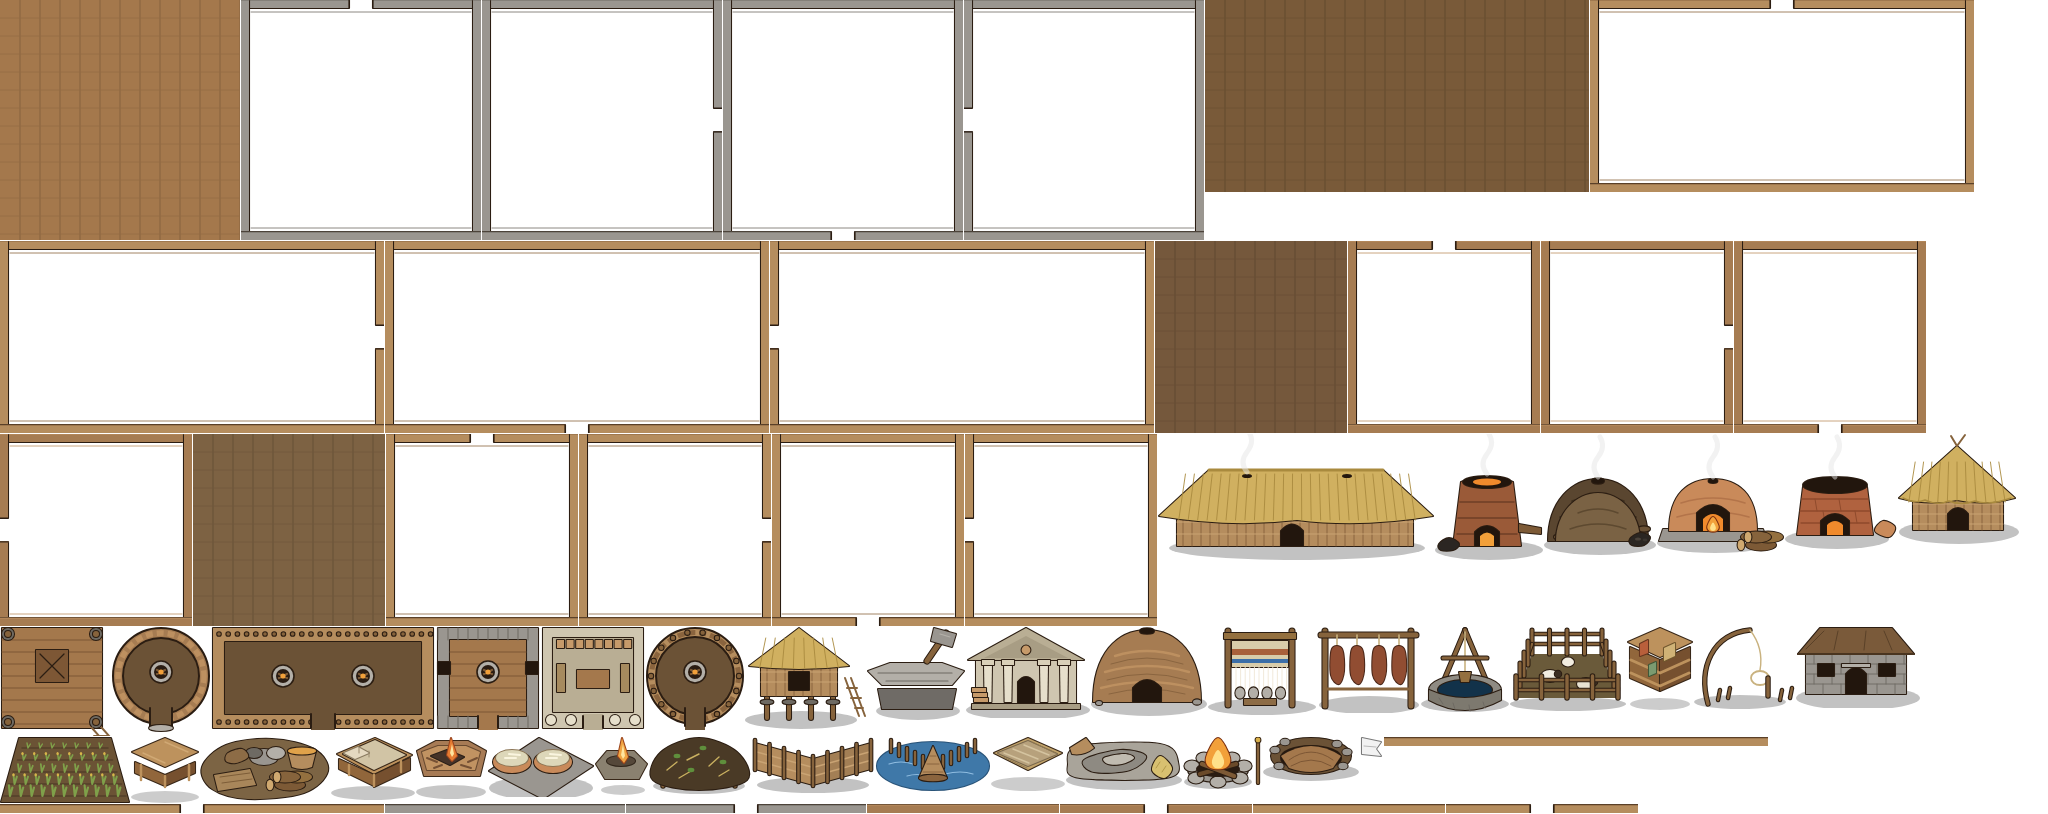
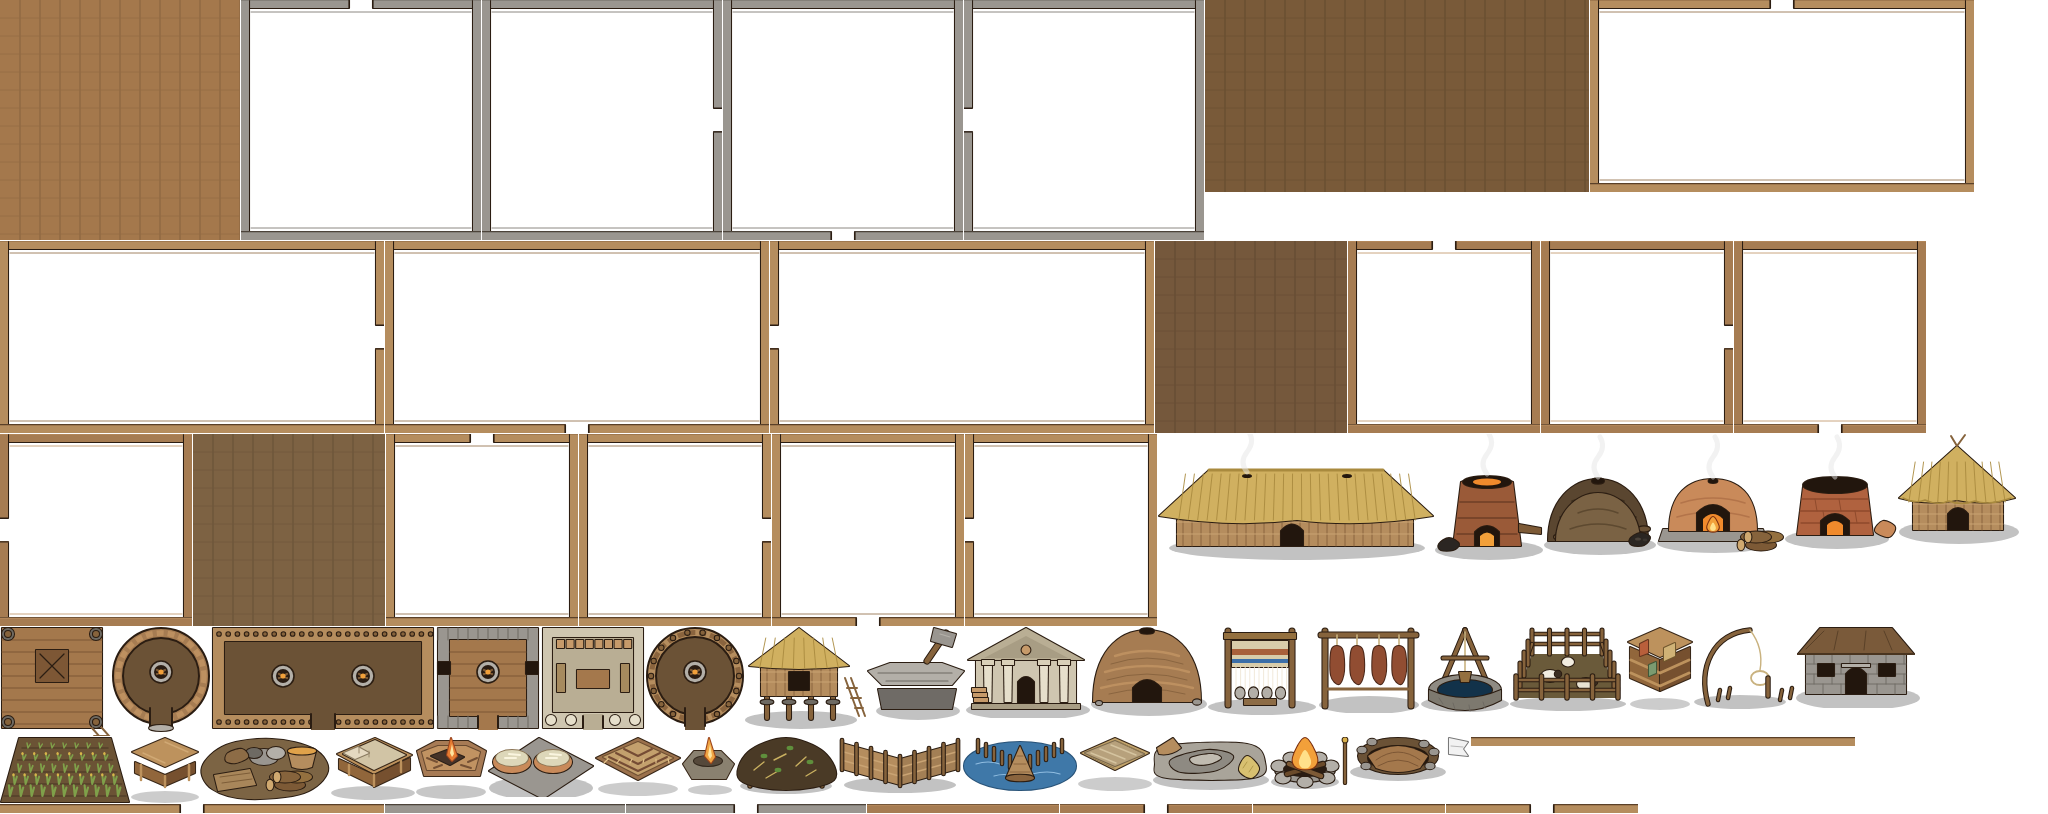
m15: add hide rug sleep surface

Changed region(s): [[0.2812, 0.8907, 0.7188, 0.9828], [0.8438, 0.8907, 0.9062, 0.9214]]

diff --git a/e2e/phase16-rug.spec.ts b/e2e/phase16-rug.spec.ts
@@ -1,0 +1,46 @@
+import { mkdirSync } from 'node:fs';
+import { test, expect } from '@playwright/test';
+
+test('hide rug in a household interior', async ({ page }) => {
+  await page.goto('/?seed=m15-hide-rug&skipIntro=1&defaults=1');
+  await expect(page.locator('.hud-clock')).not.toBeEmpty({ timeout: 15_000 });
+  await page.locator('.hud-button', { hasText: 'Pause' }).click();
+  await page.waitForFunction(() => !!(window as any).__dynasty?.renderer?.art);
+  await page.evaluate(async () => {
+    const d = (window as any).__dynasty, sim = d.sim, person = sim.player;
+    const { BUILDINGS, Building } = await import(/* @vite-ignore */ '/src/sim/entities/Building.ts');
+    let house = null;
+    for (let radius = 0; radius < 12 && !house; radius++) {
+      for (let y = Math.floor(person.y) - radius; y <= Math.floor(person.y) + radius && !house; y++) {
+        for (let x = Math.floor(person.x) - radius; x <= Math.floor(person.x) + radius; x++) {
+          if (sim.canPlace(BUILDINGS.mud_hut, x, y)) {
+            house = sim.place('mud_hut', x, y, person.bandId);
+            if (house) break;
+          }
+        }
+      }
+    }
+    if (!house) throw new Error('could not place a screenshot home');
+    house.complete = true;
+    house.durability = house.def.workTicks;
+    const rug = new Building(BUILDINGS.rug, house.x + 1, house.y + 1, person.bandId, sim.ids);
+    rug.hostId = house.id;
+    rug.complete = true;
+    sim.buildings.push(rug);
+    sim.buildingsById.set(rug.id, rug);
+    sim.buildingHash.insert(rug);
+    sim.peopleHash.remove(person);
+    person.x = house.centerX; person.y = house.centerY;
+    person.targetX = person.x; person.targetY = person.y;
+    sim.peopleHash.insert(person);
+    d.camera.zoom = 7.5;
+    d.camera.snapTo(house.centerX, house.centerY);
+    d.camera.following = false;
+    d.renderer.hideRoofs = true;
+    d.renderer.interpolator.clear();
+    d.renderer.render(null, 0);
+  });
+  const shots = 'artifacts/screenshots/m15-phase16d-hide-rug-2026-10-12';
+  mkdirSync(shots, { recursive: true });
+  await page.screenshot({ path: `${shots}/01-hide-rug-in-house.png` });
+});

diff --git a/src/sim/__tests__/furniture-sleep.test.ts b/src/sim/__tests__/furniture-sleep.test.ts
@@ -476,6 +476,35 @@ describe('bedding and beds', () => {
     } finally { spy.mockRestore(); }
   });
 
+  it('autonomously makes a one-hide rug when a bare household floor has no cheaper bedding recipe', () => {
+    const { sim, person, house } = fixture();
+    person.knownTech.add('cordage'); person.inventory.add('hide', 1);
+    person.action = 'idle'; person.order = null; person.needs.fatigue = 0;
+    expect(RECIPES.rug).toMatchObject({ tech: 'cordage', ingredients: { hide: 1 }, output: { rug: 1 } });
+    expect(scoreOneBrainTick(sim, person).found.recipe).toBe('rug');
+
+    const brain = (sim as unknown as { brain: Brain }).brain;
+    const score = brain.score.bind(brain);
+    const spy = vi.spyOn(brain, 'score').mockImplementation((actor, ctx) => {
+      const result = score(actor, ctx);
+      if (actor === person) for (const action of result.scores) {
+        if (action.id === 'craft' || action.id === 'place_furniture') action.score = 100;
+      }
+      return result;
+    });
+    try {
+      for (let tick = 0; tick < 400 && !sim.buildings.some(piece => piece.hostId === house.id && piece.def.id === 'rug'); tick++) {
+        person.needs.hunger = person.needs.thirst = person.needs.cold = 0;
+        sim.step();
+      }
+    } finally { spy.mockRestore(); }
+
+    const rug = sim.buildings.find(piece => piece.hostId === house.id && piece.def.id === 'rug');
+    expect(rug).toMatchObject({ hostId: house.id, complete: true });
+    expect(sleepQualityAt(house, rug!.centerX, rug!.centerY, [rug!])).toBe(1);
+    expect(sleepQualityAt(house, house.centerX, house.centerY, [])).toBe(0.9);
+  });
+
   it('autonomously carries its bed from the doorway into the room before placing it', () => {
     const { sim, person, house } = fixture();
     person.knownTech.add('carpentry'); person.inventory.add('bed', 1);

diff --git a/src/sim/ai/Brain.ts b/src/sim/ai/Brain.ts
@@ -3845,12 +3845,18 @@ export class Brain {
         }
         if (ordinaryFurnitureWorkAllowed) {
           const canMakeBed = recipeTechPower(person, RECIPES.bed!) > 0;
+          const canMakeRug = recipeTechPower(person, RECIPES.rug!) > 0;
           if (!furnitureItem && !furnitureRecipe && quality < 1.1 && person.inventory.count('bed') >= 1) furnitureItem = 'bed';
           else if (!furnitureItem && !furnitureRecipe && quality < 1 && person.inventory.count('bedding') >= 1 &&
             !(canMakeBed && hasIngredients(person.inventory, RECIPES.bed!))) furnitureItem = 'bedding';
+          else if (!furnitureItem && !furnitureRecipe && quality < 1 && person.inventory.count('rug') >= 1 &&
+            person.inventory.count('bedding') < 1) furnitureItem = 'rug';
           if (quality < (canMakeBed ? 1.1 : 1) && !furnitureItem && !furnitureRecipe) {
             furnitureRecipe = canMakeBed && hasIngredients(person.inventory, RECIPES.bed!) ? 'bed' :
-              person.inventory.count('bedding') < 1 ? 'bedding' : null;
+              person.inventory.count('bedding') < 1 &&
+                (hasIngredients(person.inventory, RECIPES.bedding!) || !canMakeRug ||
+                  !hasIngredients(person.inventory, RECIPES.rug!)) ? 'bedding' :
+              canMakeRug && hasIngredients(person.inventory, RECIPES.rug!) ? 'rug' : null;
           }
           if (!furnitureItem && !furnitureRecipe && !pieces.some(piece => piece.def.id === 'bench')) {
             if (person.inventory.count('bench') > 0) furnitureItem = 'bench';

diff --git a/art/src/buildings/furniture.ts b/art/src/buildings/furniture.ts
@@ -15,6 +15,13 @@ const bedding = (): string =>
   stroke('M48,68L73,78M57,64L82,74M68,60L93,70', '#d4c39f', 1.5) +
   stroke('M47,72L71,83M76,57L99,68', '#907952', 1);
 
+const rug = (): string =>
+  ell(72, 100, 40, 7, 'rgba(0,0,0,0.2)') +
+  shape(poly([[30, 69], [72, 49], [114, 69], [72, 91]]), '#9b714c', OUTLINE) +
+  shape(poly([[37, 68], [72, 53], [107, 69], [72, 86]]), '#c3a06d', '#705133') +
+  stroke('M43,68L72,82L101,68M50,64L72,75L94,64M58,60L72,67L86,60', '#754c34', 2) +
+  [0, 1, 2, 3, 4, 5].map(i => stroke(`M${42 + i * 12},70L${38 + i * 13},74`, '#e1c28a', 1.2)).join('');
+
 const bed = (): string =>
   ell(72, 101, 42, 7, 'rgba(0,0,0,0.22)') +
   shape(poly([[36, 62], [74, 46], [111, 63], [73, 82]]), WOOD_LIGHT, OUTLINE) +
@@ -61,6 +68,7 @@ const fireplace = (): string =>
 
 export const FURNITURE: BuildingArt[] = [
   ['bedding', 'Lecho', 'cordage', 96, bedding],
+  ['rug', 'Alfombra de piel', 'cordage', 96, rug],
   ['bed', 'Cama', 'carpentry', 96, bed],
   ['bench', 'Banco', 'carpentry', 96, bench],
   ['fat_lamp', 'Lámpara de grasa', 'firemaking', 96, fatLamp],

diff --git a/art/src/props/items.ts b/art/src/props/items.ts
@@ -79,6 +79,11 @@ export const ITEMS: ItemArt[] = [
     + shape(poly([[8, 31], [31, 18], [56, 31], [32, 45]]), '#c2a36a', WOOD_D)
     + shape(poly([[13, 31], [31, 21], [51, 32], [32, 42]]), '#b7a17c', '#79684d')
     + stroke('M17,31L33,40M26,26L42,35M37,23L49,30', '#e0d0ae', 1.4)],
+  ['rug', 'Alfombra de piel', 'cordage', () =>
+    ell(32, 53, 25, 4, 'rgba(0,0,0,0.18)')
+    + shape(poly([[6, 39], [31, 24], [58, 39], [32, 54]]), '#9b714c', WOOD_D)
+    + shape(poly([[12, 38], [31, 28], [52, 39], [32, 50]]), '#c3a06d', '#705133')
+    + stroke('M16,38L32,47L48,38M21,35L32,41L43,35', '#754c34', 1.5)],
   ['bed', 'Cama', 'carpentry', () =>
     ell(32, 53, 25, 5, 'rgba(0,0,0,0.2)')
     + shape(poly([[7, 26], [31, 13], [57, 27], [32, 41]]), WOOD, WOOD_D)

diff --git a/src/sim/entities/Recipe.ts b/src/sim/entities/Recipe.ts
@@ -97,6 +97,8 @@ export const RECIPES: Record<string, RecipeDef> = {
   bedding: { id: 'bedding', label: 'Bedding', icon: '\u{1F6CF}', tech: 'cordage', skill: 'build',
     workTicks: 110, ingredients: { thatch: 4 }, ingredientOptions: [{ hide: 2 }],
     output: { bedding: 1 }, keep: 0 },
+  rug: { id: 'rug', label: 'Hide rug', icon: '\u{1F9F6}', tech: 'cordage', skill: 'build',
+    workTicks: 80, ingredients: { hide: 1 }, output: { rug: 1 }, keep: 0 },
   bed: { id: 'bed', label: 'Bed', icon: '\u{1F6CF}', tech: 'carpentry', skill: 'build',
     workTicks: 140, ingredients: { wood: 3, bedding: 1 }, output: { bed: 1 }, keep: 0 },
   bench: { id: 'bench', label: 'Bench', icon: '\u{1FA91}', tech: 'carpentry', skill: 'build',

diff --git a/src/sim/entities/Item.ts b/src/sim/entities/Item.ts
@@ -105,6 +105,8 @@ export type ItemClass = 'food' | 'long' | 'small' | 'bulky' | 'loose';
 export const ITEMS: Record<string, ItemDef> = {
   bedding: { id: 'bedding', label: 'Bedding', nutrition: 0, spoilTicks: 0, baseValue: 5,
     class: 'bulky', hand: { perHand: 0, perArms: 1, hands: 2 }, furniture: true },
+  rug: { id: 'rug', label: 'Hide rug', nutrition: 0, spoilTicks: 0, baseValue: 4,
+    class: 'bulky', hand: { perHand: 0, perArms: 1, hands: 2 }, furniture: true },
   bed: { id: 'bed', label: 'Bed', nutrition: 0, spoilTicks: 0, baseValue: 12,
     class: 'bulky', hand: { perHand: 0, perArms: 1, hands: 2 }, furniture: true },
   bench: { id: 'bench', label: 'Bench', nutrition: 0, spoilTicks: 0, baseValue: 8,

diff --git a/src/sim/entities/Building.ts b/src/sim/entities/Building.ts
@@ -338,6 +338,12 @@ export const BUILDINGS: Record<string, BuildingDef> = {
     requiresTech: null, furniture: true, sleepQuality: 1.0,
     description: 'A bed of grass or hide laid inside a home.',
   },
+  rug: {
+    id: 'rug', label: 'Hide rug', icon: '\u{1F9F6}',
+    width: 1, height: 1, materials: {}, workTicks: 0, shelter: 0, storage: 0,
+    requiresTech: 'cordage', furniture: true, sleepQuality: 1.0,
+    description: 'A hide rug that softens the floor inside a home.',
+  },
   bed: {
     id: 'bed', label: 'Bed', icon: '\u{1F6CF}',
     width: 1, height: 1, materials: {}, workTicks: 0, shelter: 0, storage: 0,

diff --git a/src/i18n/es/data.ts b/src/i18n/es/data.ts
@@ -101,6 +101,8 @@ export const ES_DATA: Record<string, string> = {
   "A lined hollow. Holds a band’s surplus through a season.": "Un hoyo revestido. Guarda el excedente de una banda durante una estación.",
   "Mud hut": "Choza de barro",
   "Bedding": "Lecho",
+  "Hide rug": "Alfombra de piel",
+  "A hide rug that softens the floor inside a home.": "Una alfombra de piel que hace más cómodo el suelo dentro de una casa.",
   "Bed": "Cama",
   "Bench": "Banco",
   "A wooden seat for resting inside a home.": "Un asiento de madera para descansar dentro de una casa.",

diff --git a/docs/m15_phase16d_bedding.md b/docs/m15_phase16d_bedding.md
@@ -14,6 +14,19 @@
   surface before restoring fatigue. Bare interior uses 0.9 recovery, bedding
   1.0, and a bed 1.1. These are multipliers on the existing recovery rate.
 
+## 2026-10-12: hide rug as a low-cost sleep surface
+
+`rug` is a one-hide cordage recipe and a walkable 1×1 household furnishing.
+It raises sleep quality on its room tile to 1.0, the same reader used by
+bedding. NPC household furnishing can choose it when the room has no better
+sleep surface and the adult has the recipe materials; the normal placement
+path checks ownership, interior space and checkpoints the host. The recipe
+offers an alternative when one hide is available but the bedding recipe's
+thatch or two-hide load is not. It adds no save fields or RNG draws. The
+focused capture is
+`artifacts/screenshots/m15-phase16d-hide-rug-2026-10-12/01-hide-rug-in-house.png`.
+This is a mechanism delivery, not comfort calibration or a population claim.
+
 ## Deliberate scope
 
 The sleep-surface ladder and bench/lamp slices are delivered separately below.

diff --git a/docs/m15_plan.md b/docs/m15_plan.md
@@ -2122,6 +2122,7 @@ es posible si nadie del hogar lo ve.
 | mueble | técnica | materiales | efecto (su lector, en el mismo commit) |
 |---|---|---|---|
 | lecho (`bedding`) | ninguna | paja 4 o piel 2 | dormir a 1,0 (16e). El lecho de hierba de Sibudu tiene ~77.000 años |
+| alfombra de piel (`rug`) | `cordage` | piel 1 | dormir a 1,0 (16e), como alternativa física cuando no hay paja suficiente para un lecho |
 | cama (`bed`) | `carpentry` | madera 3, lecho 1 | dormir a 1,1 (16e) |
 | estante (`shelf`) | `carpentry` | madera 2 | **entregado:** 20 de almacenamiento en el mueble, incluido en el inventario normal de `Building.store` |
 | hogar interior (`fireplace`) | `fireplace` (sub-red Fuego) | barro 4, sílex 2 | **entregado:** hogar permanente con calor/luz, estación `hearth` para cocinar y fuego cercano para ahumar con un secadero |

diff --git a/docs/changelog.md b/docs/changelog.md
@@ -15691,3 +15691,11 @@ completadas, y se aclaró que `lean`/`generations` no siguen en curso. Se
 mantienen pendientes el diagnóstico de recuperación y `answered`; no se
 calibraron parámetros.
 
+
+## 2026-10-12 — m15: alfombra de piel para dormir
+
+Se añadió una superficie doméstica fabricable con una piel y cordaje. Dormir
+encima usa la calidad 1,0 del lector existente; los hogares NPC pueden
+fabricarla como alternativa cuando falta un lecho. La razón es ofrecer una
+opción real cuando solo hay una piel y no hay paja disponible. Sin calibración
+ni afirmaciones demográficas. Captura: `artifacts/screenshots/m15-phase16d-hide-rug-2026-10-12/`.
